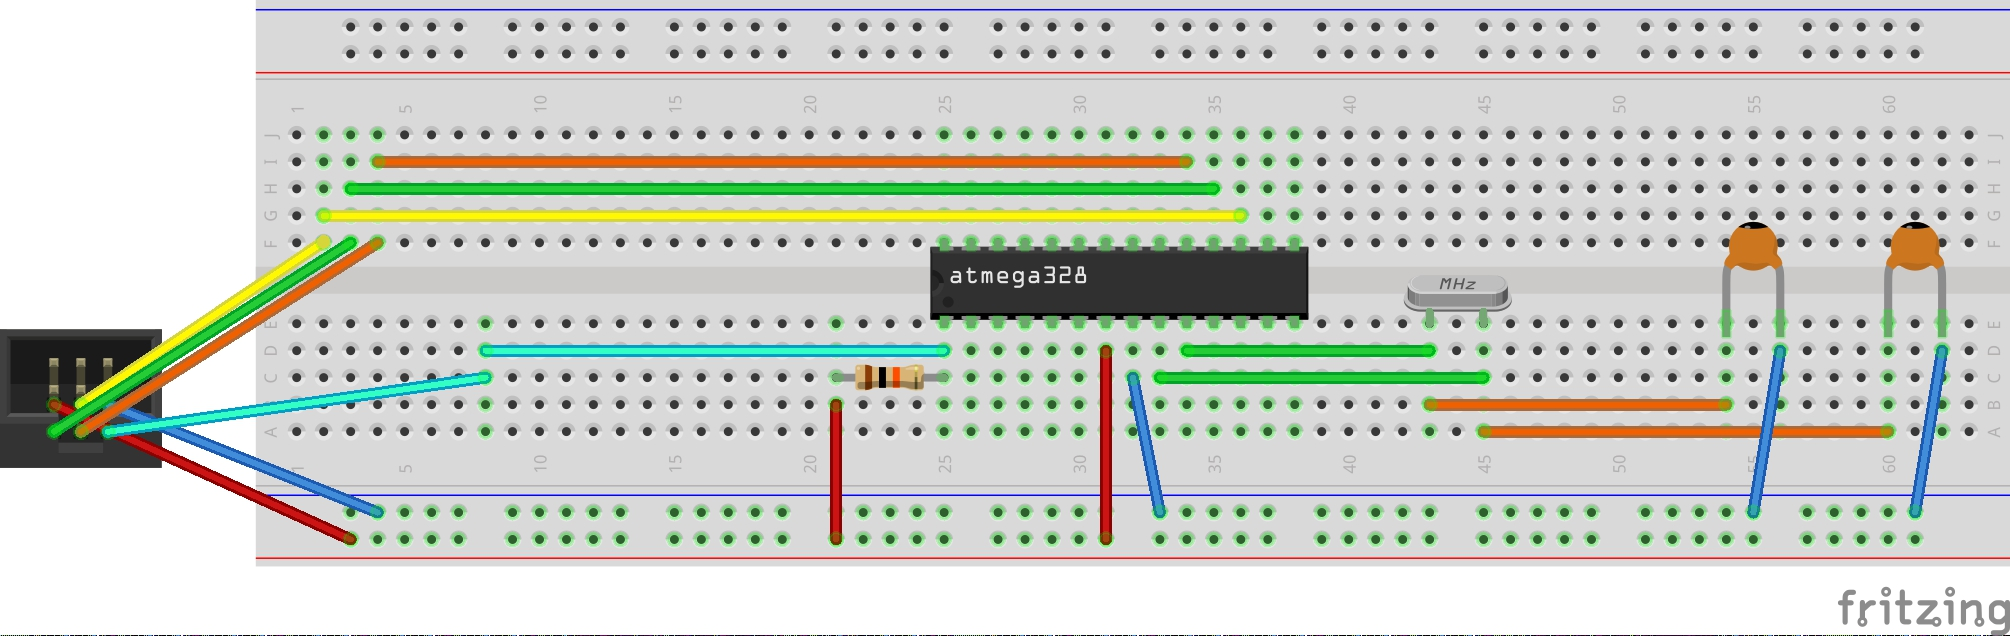
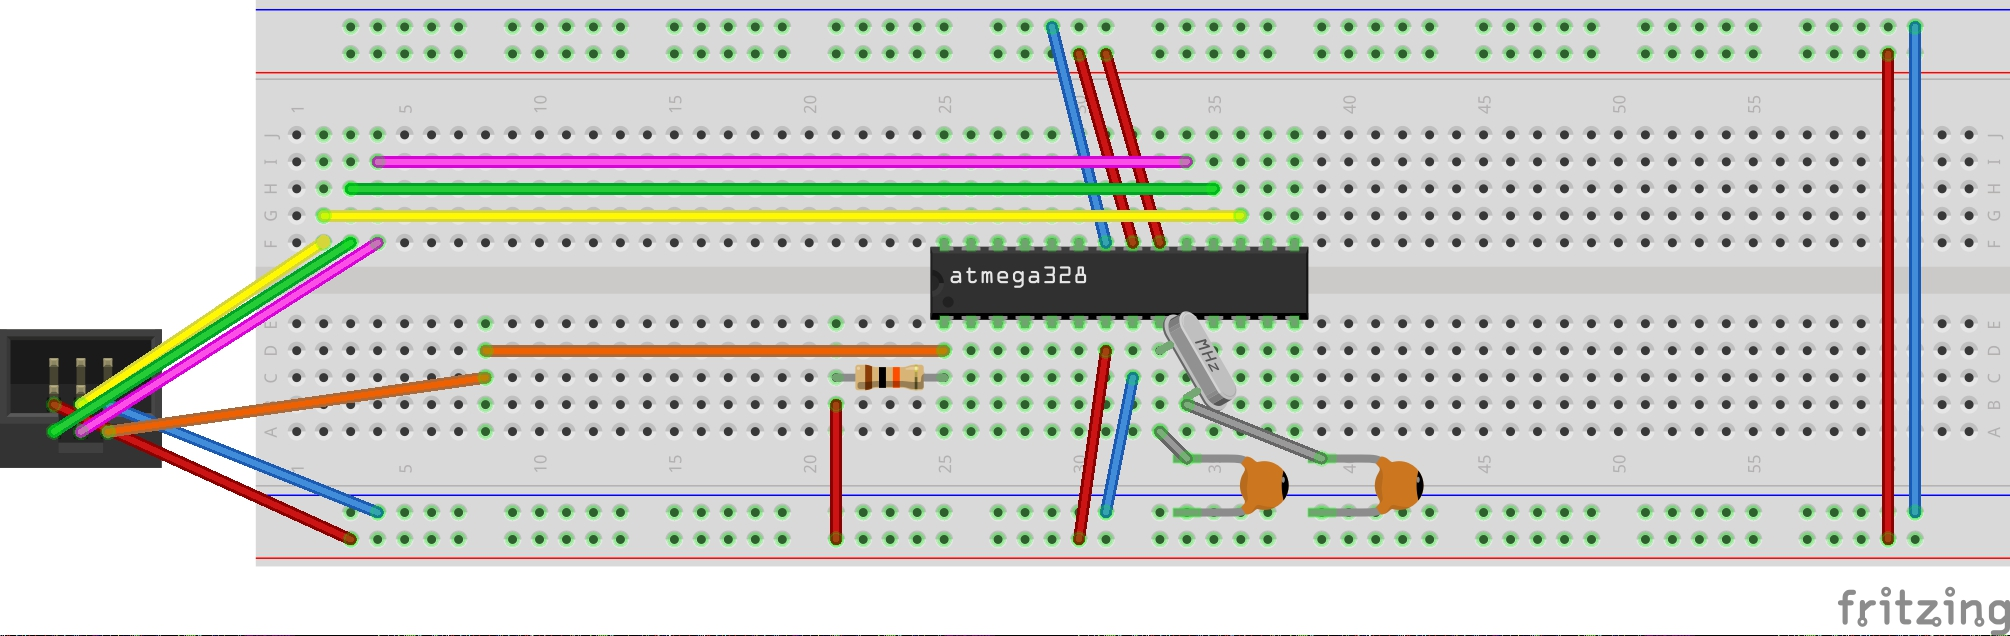
Updated circuit

diff --git a/README.md b/README.md
@@ -49,8 +49,8 @@ The device was tested on Arch linux
 #### Programmer circuit
 Components:
 * 1x ATmega328p
-* 1x Resistor 10K
-* 1x Crystal 16Mhz
+* 1x Resistor 10K ohm
+* 1x Crystal 16Mhz (needed for microcontrollers programs that use external oscillator. e.g Bootloader)
 * 2x Capacitor 22pf
 * 1x AVR Programmer
 <img src="https://raw.githubusercontent.com/amirbawab/AVR/master/images/circuit.jpg"/>
